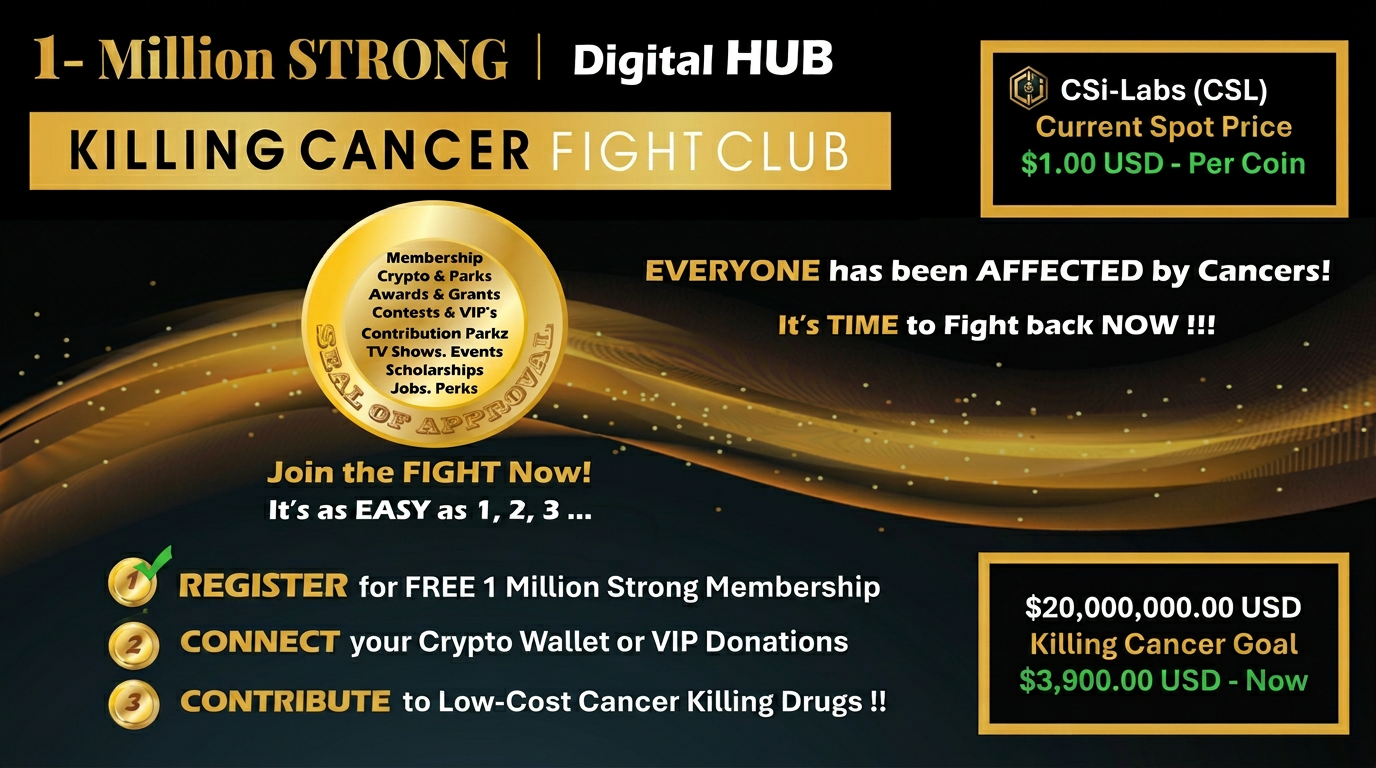
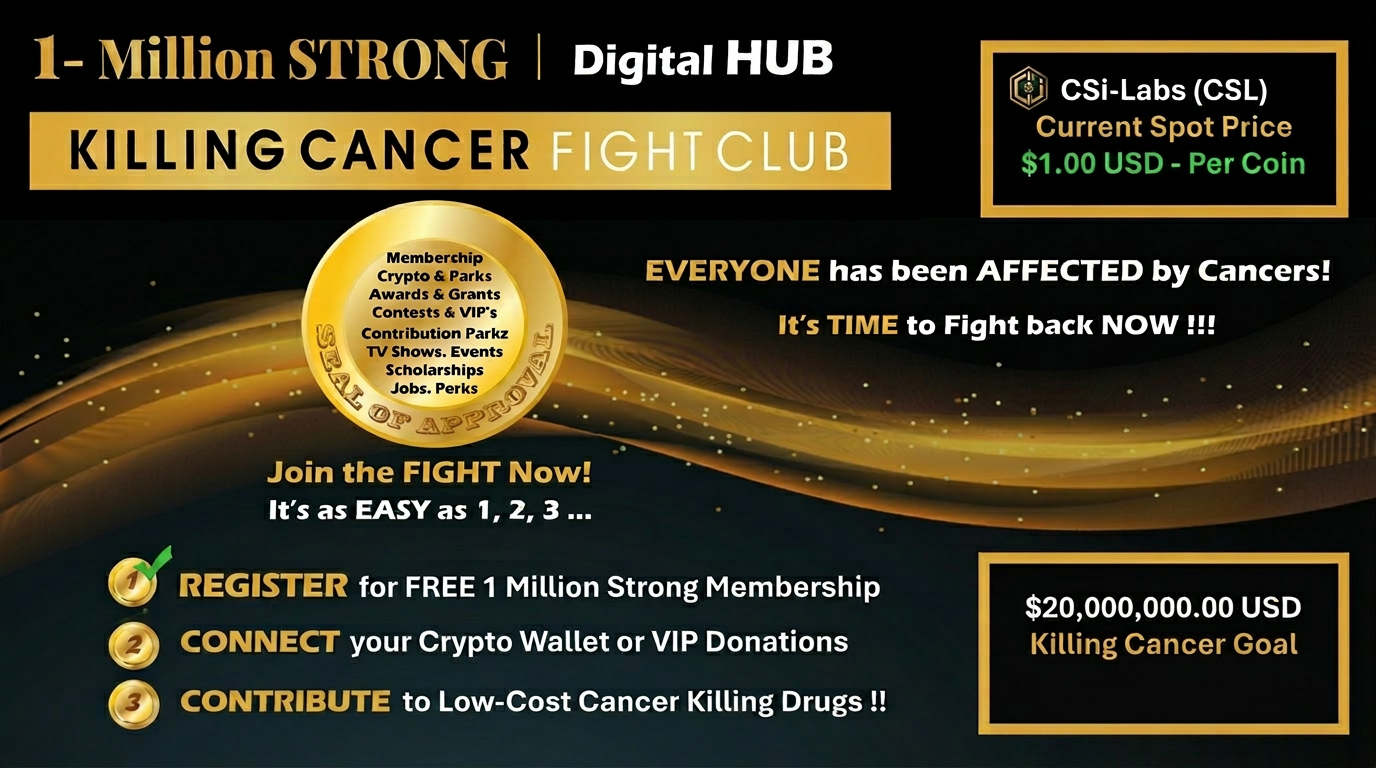
Changes

Changed region(s): [[0.7188, 0.875, 0.9688, 0.9062], [0.7812, 0.1562, 0.875, 0.1875], [0.9062, 0.1562, 0.9375, 0.1875]]

diff --git a/.lovable/plan.md b/.lovable/plan.md
@@ -1,13 +1,10 @@
 ## Goal
-The "$3,900.00 USD – Now" text is **baked into the hero image file** (`src/assets/hero/fight-club-hero.png`), not rendered by the page. It needs to be edited out of the image itself.
+Remove the "$3,900.00 USD - Now" green text line from the signup page hero banner image, keeping everything else identical.
 
 ## Change
-Use the `imagegen--edit_image` tool (Nano Banana) to remove only the "$3,900.00 USD - Now" line from inside the dark "Killing Cancer Goal" panel on the right side of the image. Everything else — the "$20,000,000.00 USD" headline, the "Killing Cancer Goal" subtitle, the panel border, and the rest of the composition — stays exactly as it is.
-
-- Input: `src/assets/hero/fight-club-hero.png`
-- Output: overwrite same path so all existing imports continue to work
-- Prompt focuses on a clean removal, matching the surrounding dark panel background, no relayout of other text.
+- Target file: `src/assets/hero/register-hero-banner.png` (used by `src/pages/Auth/Register.tsx`)
+- Use `imagegen--edit_image` (Nano Banana) with a tightly-scoped prompt: erase only the green "$3,900.00 USD - Now" line inside the dark "Killing Cancer Goal" panel and fill with the same black background. Preserve the "$20,000,000.00 USD" headline, "Killing Cancer Goal" subtitle, gold border, CSi-Labs panel, seal, "EASY as 1, 2, 3" steps, and all other text/layout exactly as-is.
+- Overwrite same path so the import keeps working.
 
 ## Verification
-- Reload `/` and visually confirm the dark panel now shows only the $20M goal + "Killing Cancer Goal", with the "$3,900.00 USD – Now" line cleanly removed and no artifacts.
-- If the result has artifacts or accidentally alters other text, re-run with a tighter prompt or revert.
+Reload `/signup` and confirm the panel shows only the $20M goal + subtitle, with no artifacts where the line used to be.
